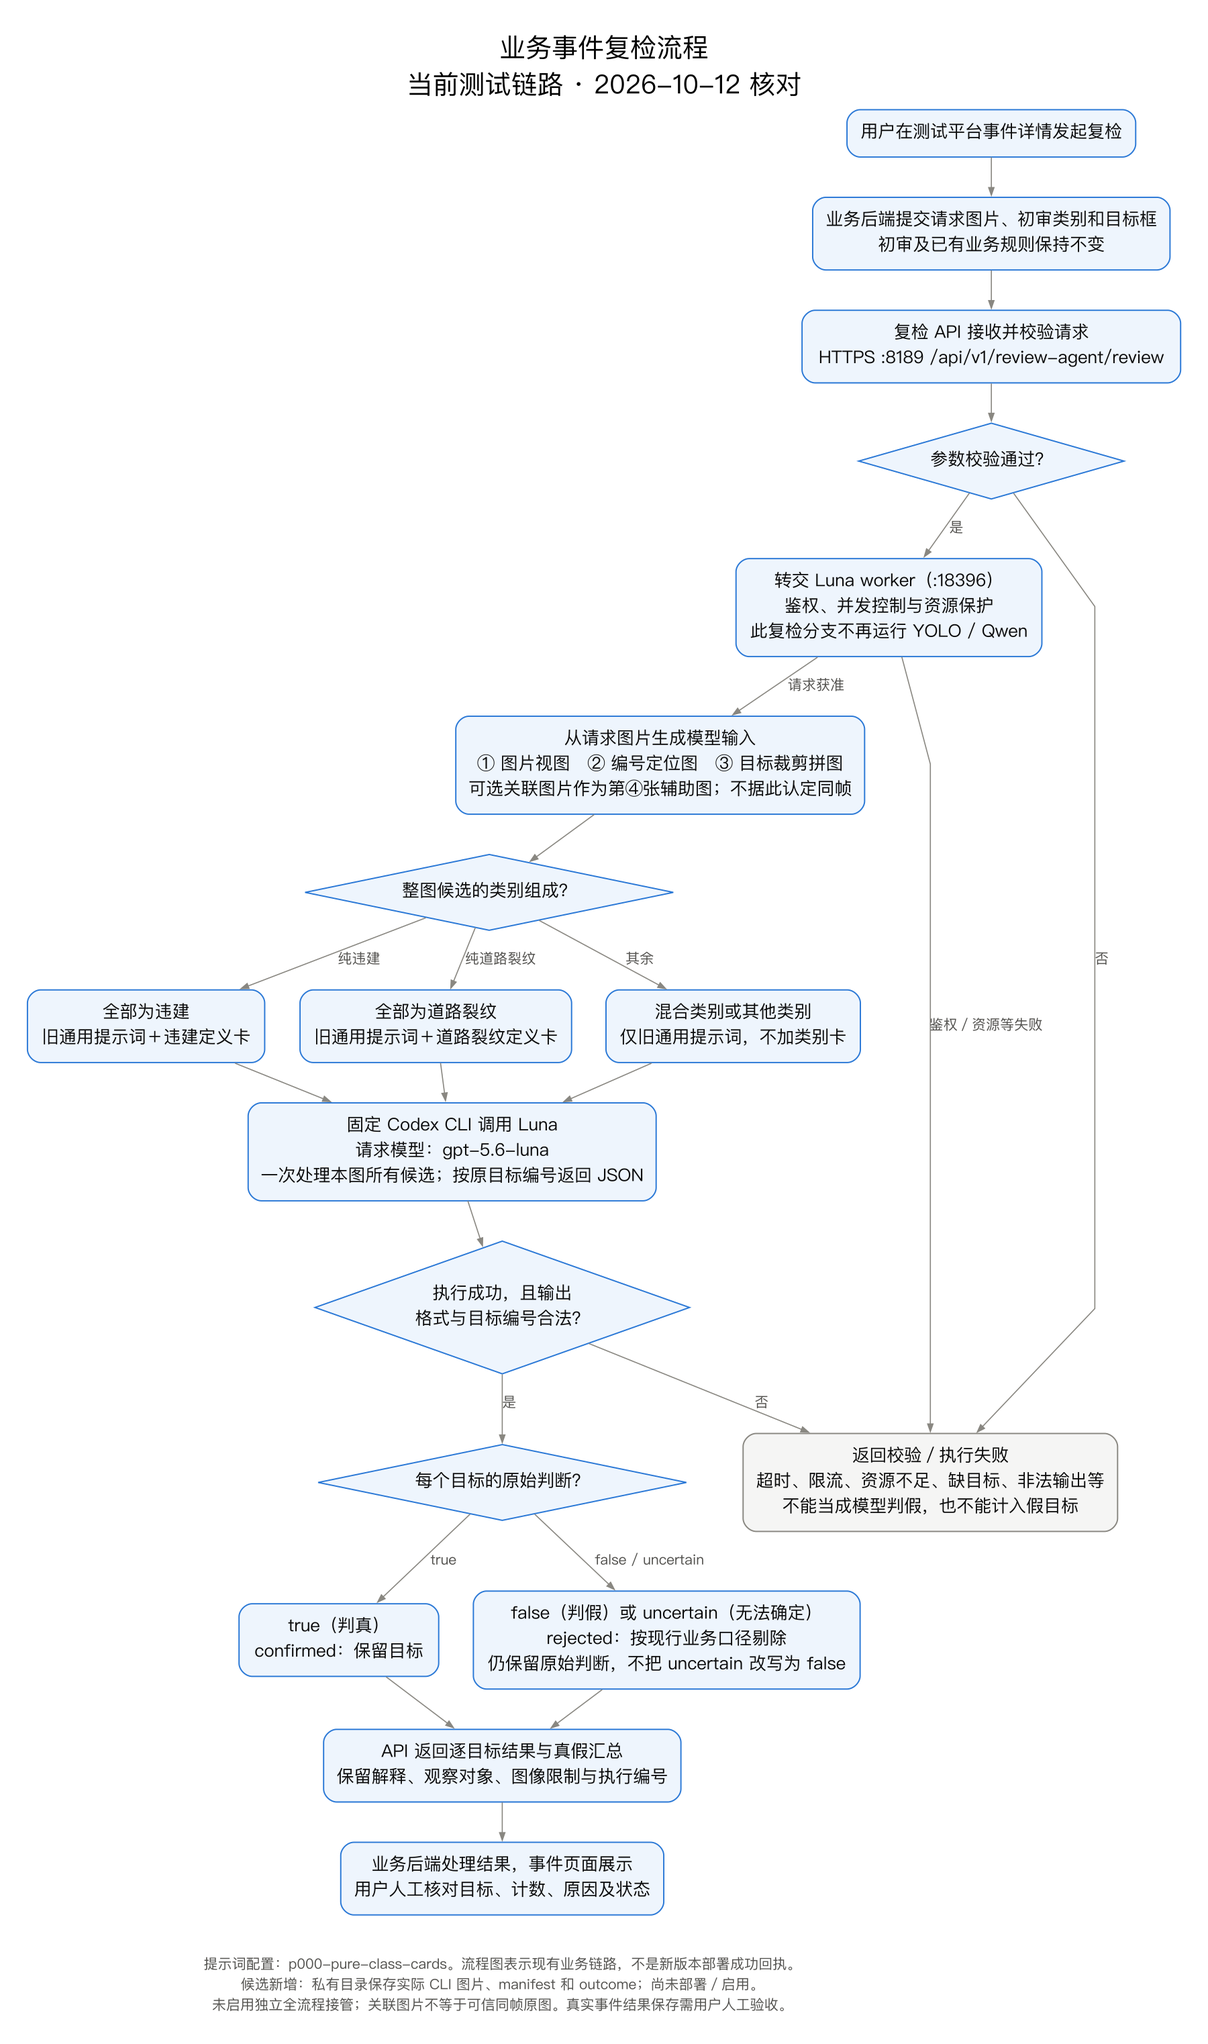
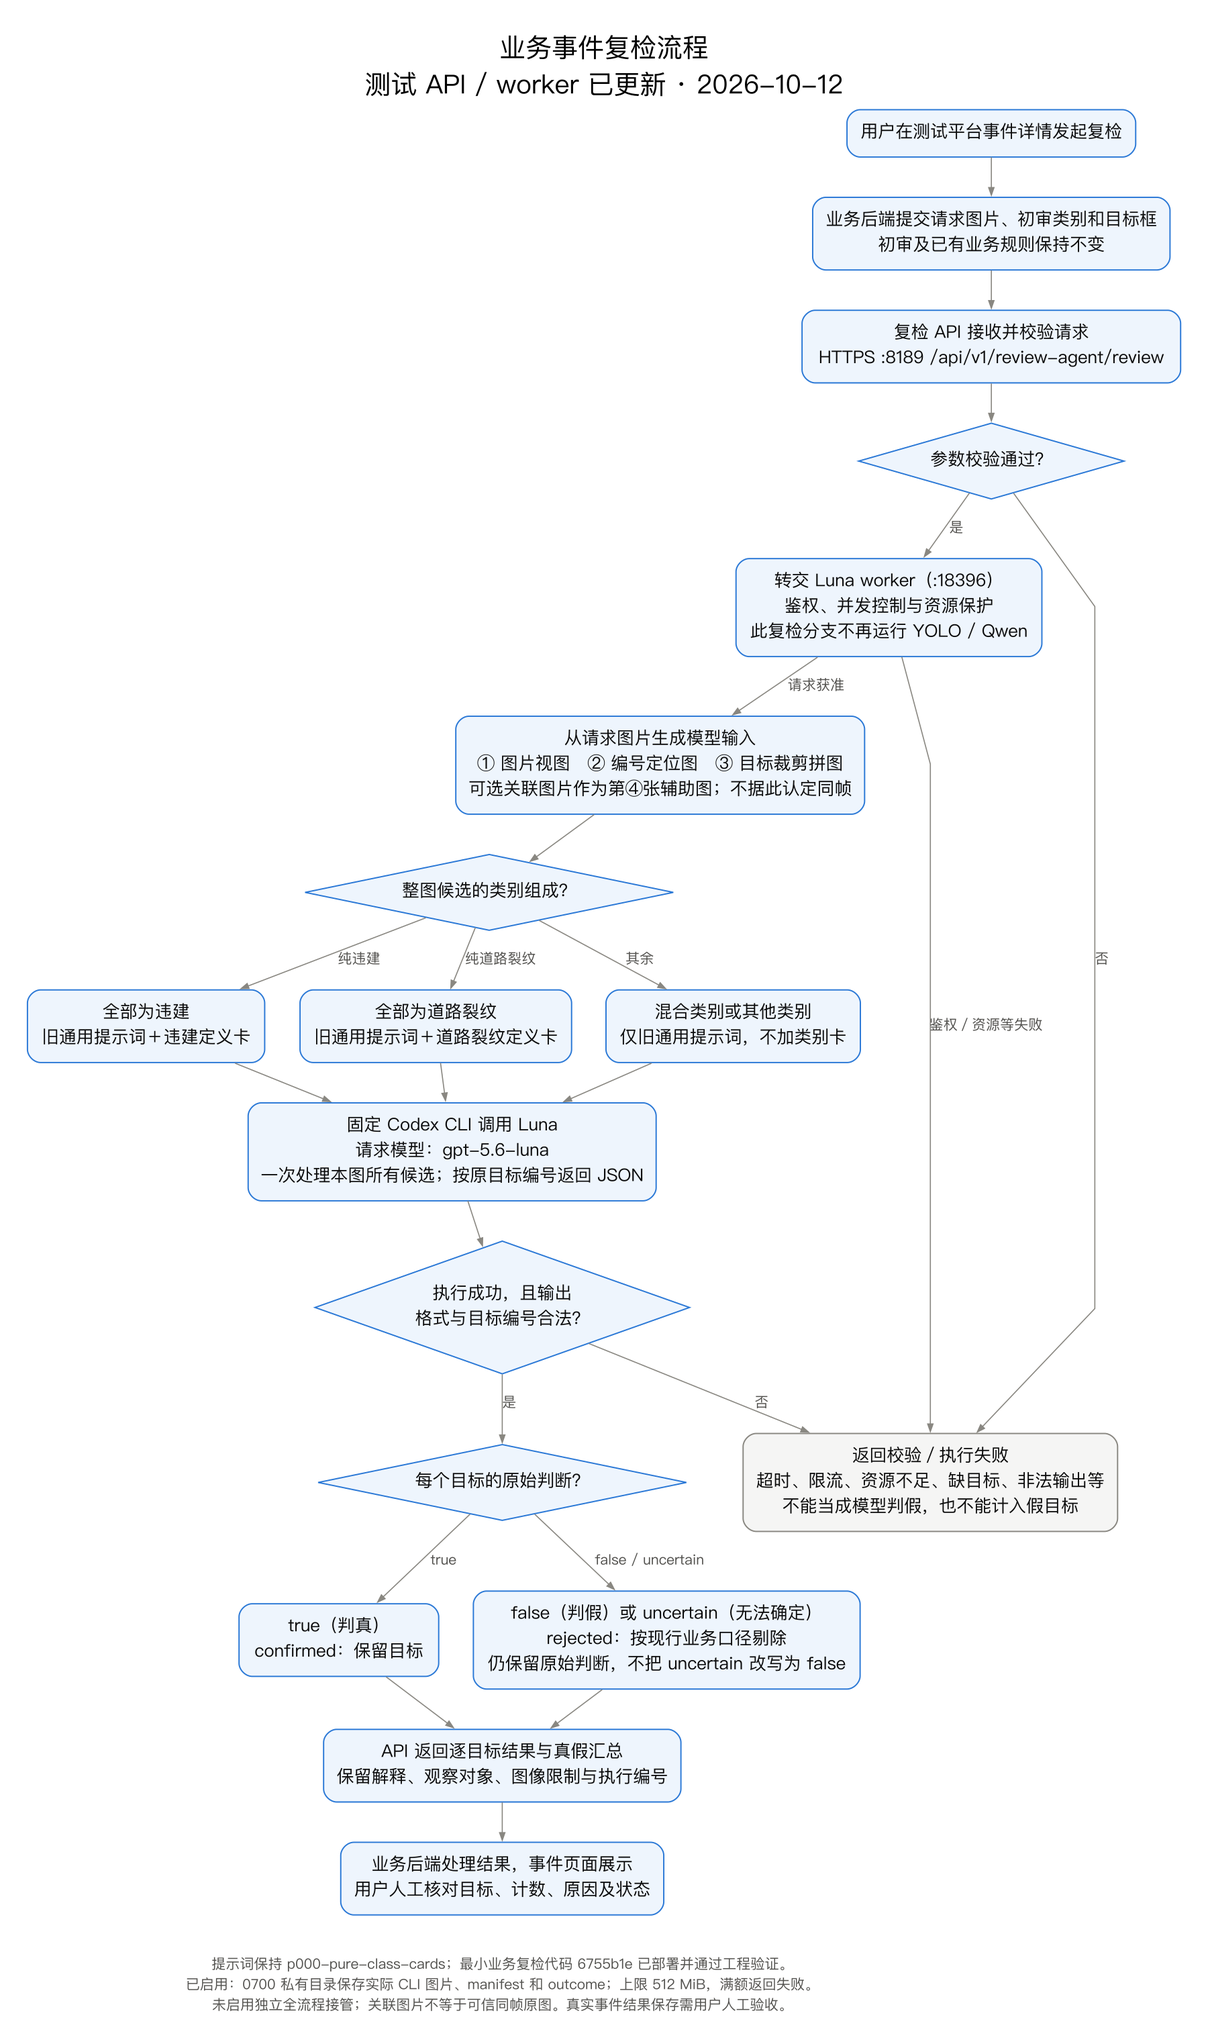
docs: 记录最小业务复检发布验证与回滚证据

diff --git a/docs/luna-business-test-20261012.md b/docs/luna-business-test-20261012.md
@@ -2,45 +2,98 @@
 
 ## 结果与边界
 
-**代码已推送，流程图已生成；候选版本尚未部署。** 上传候选包到 `ai-lingxi` 的操作被执行权限策略拒绝（Data Exfiltration）。该命令没有执行，因此没有创建本轮服务器发布目录、上传文件、构建镜像、改写服务配置或重启服务。不能把旧版本健康检查说成候选部署验证。
+**2026-10-12 14:42（UTC+8），最小业务复检版本已发布到公司测试主机 `ai-lingxi / 192.168.130.238`，测试 API 与 Luna worker 均完成版本及健康核验。** 本轮用户明确授权上传 `6755b1e`、隔离验证及可回滚更新。此前上传权限拒绝属于上一轮记录；本轮正常上传成功，没有修改宿主权限策略。
 
-用户选择的目标是现有测试平台的**业务事件复检**，不是标注平台 `5275/8392`，也不是尚未完成的独立全流程接管。此次范围仅为兼容的复检 API/worker；初审、现有业务规则、`p000-pure-class-cards` 提示词和固定 CLI 保持不变。真实事件复检及业务保存由用户在页面操作。
+此次仅更新现有业务事件复检 API/worker。初审、现有业务规则、`p000-pure-class-cards` 提示词、固定 CLI、原 API 环境与挂载均保留。未上传或启动 `luna_pipeline/`，未执行真实业务任务、真实事件复检、模型调用或业务结果保存；标注平台 `5275/8392` 不在发布范围。
 
-## 已推送源码
+**当前能确认的是代码与工程链路部署成功。真实事件页面、结果保存和识别准确率尚未验收，不能据此声称准确率提升。** 没有可信业务原帧索引，因此 `CODEX_REVIEW_FRAME_INDEX` 继续不配置；关联图片仍不能当成严格同帧原图。
+
+## 已推送源码及最小制品
 
 | 仓库 | 分支 | 已核验远端提交 |
 |---|---|---|
 | review-annotation-platform | bugfix/luna-input-evidence | `dffd8d8f4a0b61075fbbf6426bbfa590f1d83211` |
 | yoloe-algorithm-service | feature/luna-independent-pipeline | `6755b1e149fb1bfceb289999b4f5ab8174279bdb` |
 
-前者是离线实验的完整覆盖门禁及实际输入摘要，不可把它的实验 worker 替换进业务服务：实验调用方传入提示词，而业务 worker 自行组装提示词。后者虽包含独立 pipeline 代码，本次仅选择其兼容业务 API/worker 部分，不启用新 pipeline。
-
-业务候选最小部署源码：
+前者是离线实验 worker，不用于替换业务服务。后者由 `git archive 6755b1e` 提取以下最小文件；包含在该提交内的独立全流程代码不属于本次发布。
 
 - `api/review_agent_routes.py`
 - `zhuoyi二次检测智能体/codex_luna_review.py`
 - `scripts/run_codex_luna_worker.py`
-- `scripts/luna_prompts/`
-- `deploy/codex-luna/Dockerfile`（构建时必须显式指定当前测试镜像作为基底，不能沿用默认的更早镜像）
+- `scripts/luna_prompts/` 下三个当前提示词文件
+- `deploy/codex-luna/Dockerfile`
 
-## 流程图
+另上传六个定向测试文件及两个固定夹具，共 15 个源码/测试文件，逐文件 SHA-256 与提交内容一致。API 镜像仅覆盖前两个 Python 文件，以切换前实际镜像 ID 为基底构建，未使用 Dockerfile 中较早的默认基底。worker 从新版本目录启动，三个提示词文件与旧 worker 目录逐字相同；六组纯类别、混合类别和别名输入的最终提示词也逐字相同。
+
[1 lines of base64/hex data omitted]
+
+## 当前运行身份与配置差异
+
+| 项目 | 本轮核验结果 |
+|---|---|
+| 业务 API | `https://192.168.130.238:8189`，健康路径 `/api/v1/health` |
+| API 容器 | `yoloe_service_test`；2026-10-12 14:42:07（UTC+8）启动 |
+| 当前镜像 | `yoloe_service_test:luna-business-6755b1e` |
+| 当前镜像 ID | `sha256:63877b8ca42c9f29fbf0ddf5cb9bc8754fcf52eaecee07b7c83006c63e658ee7` |
+| Worker | 用户服务 `codex-luna-review-worker.service`，`192.168.130.238:18396`；14:42:04 启动 |
+| 发布目录 | `/data/workspace/jzheng/codex-luna-review/releases/6755b1e-business` |
+| 提示词 | `p000-pure-class-cards`，沿用原 `47ca276…/prompt.env` |
[1 lines of base64/hex data omitted]
+| API/worker 上限 | 各 8 GiB、4 CPU；API 不额外使用 swap，worker `MemorySwapMax=0` |
+| 最终输入存档 | `/data/workspace/jzheng/codex-luna-review/input-evidence/6755b1e-business`，0700，最多 536870912 字节（512 MiB） |
+
+API 保留原八层 Compose 配置、顺序、两个环境文件、所有环境变量、挂载、端口与 GPU 配置；仅追加发布目录的 `compose.image.yml` 指定候选镜像。原八个文件摘要均未变化。不要只用最后一层 Compose 启停，也不要使用 `--remove-orphans`，同项目标签下有无关服务。
+
+Worker 保留原服务单元和 `50-prompt-release.conf`，新增 `60-business-release.conf` 改启动源码路径，并增加 `CODEX_REVIEW_EVIDENCE_DIR`、`CODEX_REVIEW_EVIDENCE_MAX_BYTES`。除 systemd 每次启动产生的进程元数据外，环境差异仅这两个存档字段；原 CLI、凭据和提示词配置不变。
+
+存档保存实际传给 CLI 的图片、manifest 与 outcome；满额或写入失败返回执行失败，不自动删除证据，不把失败变成“判假”。本轮没有真实调用，交付时该目录为空。启用此功能不代表已经取得真实输入或严格同帧证据。
+
+## 本轮验证证据
+
+- 服务器候选镜像中，六个定向测试文件 **75/75 通过**（3.792 秒）：`test_luna_input_evidence.py`、`test_luna_worker_failure_log.py`、`test_codex_luna_review.py`、`test_luna_prompt_cards.py`、`test_review_agent_routes.py`、`test_clean_source_review_routes.py`。镜像无 pytest，使用标准库 unittest 执行同一批测试，没有安装或升级依赖。
+- 独立 HTTP 链路 **6/6 工程检查通过**：六组提示词等价性、实际 worker HTTP、实际合成 CLI 子进程、API 三态映射、输入与 outcome 摘要、存档容量拒绝时返回 503。判定输出是测试替身，真实模型调用 0、业务写入 0，不是准确率测试。
+- 两类验证容器均断网、无 GPU、无共享业务数据/凭据挂载，只使用合成图片与假密钥；上限 4 GiB、2 CPU、128 进程，`--rm`，带 owner/purpose 标签。未启动独立全流程。
+- 切换前核对 worker 无子进程、8189/18396 无已建立业务连接；批量任务接口返回 0 个活动任务。API 原有 MySQL 启动检查可能检查表结构，因此先用限时只读事务核对：表和所需字段已存在，无会触发旧结构迁移的 `class_name` 字段，事务回滚；没有扩大数据库权限或执行业务查询/写回。本检查不是全数据库零写入审计。
+- 发布后通过现有 mkcert CA 完整校验 TLS，API 返回 `success=true/status=ok/model_loaded=true`；worker 返回既有模型、提示词和 only-true 策略。核对实际镜像 ID、API 两个文件摘要、worker 进程源码路径与文件摘要、环境差异及资源上限。
+- 本轮前后 **59/59 个无关运行容器**的 ID、镜像、启动时间和重启次数一致；没有操作生产 API、规则服务、推理 Java 或标注平台。
+
+私有发布目录保存 `manifest.json`、`preparation.json`、`isolated-tests.log`、`isolated-http.json`、`schema-precheck.json`、`deployment-receipt.json`、`rollback-receipt.json`、`deployment-history.json` 与 `evidence-sha256.json`。完整运行环境和回滚快照仅保存在服务器 0700 私有目录，未下载或提交凭据。
+
[1 lines of base64/hex data omitted]
+
+## 切换中的问题与回滚验证
+
+本轮有两次发布脚本问题，均已修正，未修改候选业务源码：第一次 worker 重启后过早检查监听，连接拒绝，自动恢复旧 worker，API 未切换；第二次候选健康正常，但 Docker 挂载列表顺序变化被误判为内容变化，触发恢复旧 API/worker。随后修正为按挂载目标排序比较，并在 14:41:54 核验旧镜像、旧 worker、提示词与健康均已恢复。最终 14:42:26 候选发布验收成功。
+
+这验证了本轮旧版本可恢复；没有通过反复调用业务任务测试回滚。最终发布脚本保留有界就绪等待、精确配置检查与失败回滚。
+
+## 发布复核与回滚操作
+
+旧镜像 `yoloe_service_test:codex-luna-ef643c7` / `sha256:eb10b5b55337ae0c4be79d905c0e629b9e47892582303b0313d294dd99c62c73` 以及旧 worker `25a612f28403bed971db96430ab638508589b5f6` 目录均保留。原 `50-prompt-release.conf` 不应删除，否则会误退提示词。
+
+只读复核已部署版本（不发送复检请求）：
+
+```bash
+ssh ai-lingxi 'python3 /data/workspace/jzheng/codex-luna-review/releases/6755b1e-business/release.py verify'
+```
+
+需要回滚时，在无在途请求后执行以下命令；脚本会核对原配置摘要、旧制品和当前候选身份，有漂移则停止，不覆盖未知改动：
+
+```bash
+ssh ai-lingxi 'python3 /data/workspace/jzheng/codex-luna-review/releases/6755b1e-business/release.py rollback'
+```
+
+回滚仅移除本次 `60-business-release.conf`，恢复旧 worker，并以保存的原八层 Compose 参数与环境恢复旧 API 镜像；随后检查 TLS 健康、源码路径、资源与配置。既有输入存档不删除、不重放，原提示词 drop-in 不动。不要直接打印私有 `rollback/` 内的环境快照。
+
+## 流程图与人工验收
 
 - [PNG 图片](diagrams/luna-business-review.png)
 - [SVG 矢量图](diagrams/luna-business-review.svg)
-- [Graphviz 可维护源文件](diagrams/luna-business-review.dot)
+- [Graphviz 源文件](diagrams/luna-business-review.dot)
 
-图表示此次核对的现有业务链路。候选新增的实际 CLI 图片存档功能在图下注明**尚未部署／启用**，没有画成线上已完成的步骤。
+流程：用户发起复检 → 业务后端提交图片/候选框 → API 校验 → worker 生成视图并存档 → 沿用当前类别卡与固定 CLI → 校验目标编号及三态输出 → `true` 保留，`false/uncertain` 剔除但保留原三态 → API 返回 → 业务页面及保存由用户验收。执行失败不等于模型判假。
 
-流程文字版：
-
-1. 用户在事件详情发起复检，业务后端提交图片和已有候选框。
-2. API 校验请求，转交 Luna worker；此分支不先运行 YOLO/Qwen。
-3. 从请求图片生成图片视图、编号定位图、目标裁剪拼图。可选关联图片只作辅助，不能仅凭关联就认定严格同帧。
-4. 整图全是违建时加入违建卡；全是道路裂纹时加入裂纹卡；混合或其他类别沿用旧通用提示词。
-5. 固定 CLI 请求 `gpt-5.6-luna`，一次处理本图全部候选，验证返回格式与目标编号。
-6. `true`（判真）映射为 `confirmed`（保留）；`false/uncertain`（判假／无法确定）映射为 `rejected`（剔除），仍保留原始三态和原因。
-7. 校验错误、超时、限流、资源不足、缺目标及非法输出属于失败，不能充当模型判假。
-8. API 返回逐框结论和汇总，由业务后端处理、页面展示。真实保存与页面状态仍需人工验收。
+建议用户手动验收纯违建、纯道路裂纹、混合类别和人员事件：核对目标框、类别、计数、原因及重新打开后的状态是否保留。记录事件编号、操作时间和执行编号，再只读核对输入 manifest/outcome；不要在公开渠道贴原图或令牌。Codex 本轮未替用户执行这些操作，也没有新增准确率结论。
 
 重新生成图片：
 
@@ -49,64 +102,10 @@ dot -Tsvg docs/diagrams/luna-business-review.dot -o docs/diagrams/luna-business-
 rsvg-convert -w 1800 docs/diagrams/luna-business-review.svg -o docs/diagrams/luna-business-review.png
 ```
 
-蓝色配色已通过 dataviz 配色校验，PNG 已实际打开检查中文、节点和连线；状态由文字及形状表示，不依赖颜色。
-
-## 验证证据
-
-- 离线实验专项：57 项通过，无跳过；不调用模型、不写业务数据。
-- 业务候选本机定向回归：75 项通过（3.68 秒），范围为以下六个测试文件：
-  - `tests/test_luna_input_evidence.py`
-  - `tests/test_luna_worker_failure_log.py`
-  - `tests/test_codex_luna_review.py`
-  - `tests/test_luna_prompt_cards.py`
-  - `tests/test_review_agent_routes.py`
-  - `tests/test_clean_source_review_routes.py`
-- 测试出现既有 requests 依赖版本警告，没有升级无关依赖。
-- 完整八层 Compose 配置已在服务器只读复现，环境差异键为空；原挂载、端口、内存与 CPU 配置一致。含凭据的完整配置没有打印、下载或提交。
-- 旧测试 API 通过现有 mkcert CA 完整校验 TLS 后，健康返回 `success=true/status=ok/model_loaded=true`。这是旧服务健康，不是新版本、真实模型准确率或业务入库验收。
-- **未完成：**服务器候选隔离验证、镜像构建、部署切换、切换后检查、真实事件人工验收。没有新增模型准确率结论。
-
-## 已核对的测试现场（后续发布前须重新确认）
-
-| 项目 | 值 |
-|---|---|
-| 主机 | `ai-lingxi` / `192.168.130.238` |
-| 业务 API | `https://192.168.130.238:8189` |
-| 健康路径 | `/api/v1/health` |
-| 当前容器 | `yoloe_service_test` |
-| 当前镜像 | `yoloe_service_test:codex-luna-ef643c7` |
-| 当前镜像 ID | `sha256:eb10b5b55337ae0c4be79d905c0e629b9e47892582303b0313d294dd99c62c73` |
-| Worker | `codex-luna-review-worker.service`（systemd 用户服务） |
-| Worker 监听 | `192.168.130.238:18396`，不是 localhost |
-| Worker 当前源码版本目录 | `25a612f28403bed971db96430ab638508589b5f6` |
-| 当前提示词 | `p000-pure-class-cards` |
-| 当前 API/worker 资源上限 | 各 8 GiB、4 CPU；worker 无 swap |
-
-原 worker 的 `50-prompt-release.conf` 继续引用 `47ca276bf77f4901627b12e81b49b5363555757b/prompt.env`。回滚应保存并恢复发布当时的原件，而不是直接删除该 drop-in，否则会误退提示词。
-
-Compose 必须保留容器标签 `com.docker.compose.project.config_files` 所列的全部八层配置及其顺序。只用最后一层会丢失已有功能。以运行容器的环境与挂载补齐插值参数，并使用原 `/data/workspace/jzheng/.env`；不要把 token 输出到终端或 Git。
-
-## 权限允许后继续的最小步骤
-
-1. 重新核对两个仓库和服务器运行状态，确认候选提交未漂移；重新检查内存、磁盘、GPU 和在途复检。
-2. 在 `/data` 新版本目录放置最小候选包并逐文件校验，不覆盖运行中的版本目录。先保存原镜像身份、完整 Compose 配置身份与 worker 配置，准备精确回滚。
-3. 用当前镜像构建仅覆盖两个 API 文件的 overlay 镜像。服务器隔离验证必须无共享业务写入、无真实模型调用、无共享 GPU；临时容器必须限制内存、同值 swap、CPU，带 `--rm` 和任务标签。
-4. 若启用候选输入存档，使用专用 0700 私有目录和明确容量上限；存档满或写入失败必须返回执行失败，不自动清理用户证据。不启用 `CODEX_REVIEW_FRAME_INDEX`（当前没有准入的业务可信原帧索引）。
-5. 隔离验证通过、无在途请求后，保持原提示词、CLI、凭据、挂载和资源限制，切换 worker/API；失败则按本轮快照回滚。
-6. 核验实际运行源码摘要、镜像 ID、worker 健康及可信 TLS API 健康，然后才能通知用户已部署。
-7. 更新本记录与流程图中的实际部署状态；清理本轮临时验证资源。不得替用户执行真实事件复检或业务回写。
-
-需由正常权限审批通道允许的具体动作是：**把上述最小源码候选包上传到已确认的公司测试主机 ai-lingxi 的新版本目录，随后按隔离验证和可回滚流程发布现有业务复检 API/worker。** 不更改宿主权限策略，不换传输方式绕过本次拦截。
-
-## 人工验收重点（候选部署确认后）
-
-- 分别测试纯违建、纯道路裂纹、混合类别与人员事件。
-- 检查逐目标框、类别、真假计数及理由是否对应；`uncertain` 应保留原始含义，但按当前口径剔除。
-- 失败事件不能变成“全部为假”；不要在共享环境人为制造内存耗尽或压测来验证失败分支。
-- 核对重新打开事件后结果和状态是否保留，避免仅前端临时展示正确。
-- 如需排查，记录事件编号、操作时间、执行编号；不要在公开渠道贴图片或令牌。
-- 只有候选存档实际启用后，才检查其执行编号对应的输入 manifest 与 outcome。单次人工测试不能证明准确率提升或严格同帧。
-
 ## 资源与工作区
 
-本轮未启动或重启服务器进程、容器或端口；没有新建工作树，复用现有主检出。用户已有标注 CSV、`docs/CODEX_PROGRESS.md` 和其他不明来源数据保持不动。持久保留内容为本文及流程图源文件、SVG、PNG；临时发布包属于未上传的中间产物，不作为已部署制品。
+本轮临时验证容器均已删除，没有临时监听、GPU 占用或独立验证实例残留。已删除远端上传 tar 与一次性准备脚本；保留约 268 KiB 的候选源码、测试、必要回执、发布/回滚脚本和私有配置快照。输入存档目录为空，保留供用户后续手动验收。旧镜像及旧源码保留用于回滚，不删除既有资源。
+
+交付时测试 API 约用 1.516 GiB 内存，worker 约用 13 MiB；二者是本次获授权更新的长期测试服务，保留运行。主机可用内存约 207 GiB，未出现 OOM；没有保留额外临时服务。
+
+复用两个仓库主检出，没有新建工作树。算法仓库未改源码；本仓库仅更新本文和现有流程图。用户已有标注 CSV、`docs/CODEX_PROGRESS.md`、算法仓库未跟踪脚本及其他数据保持不动。
